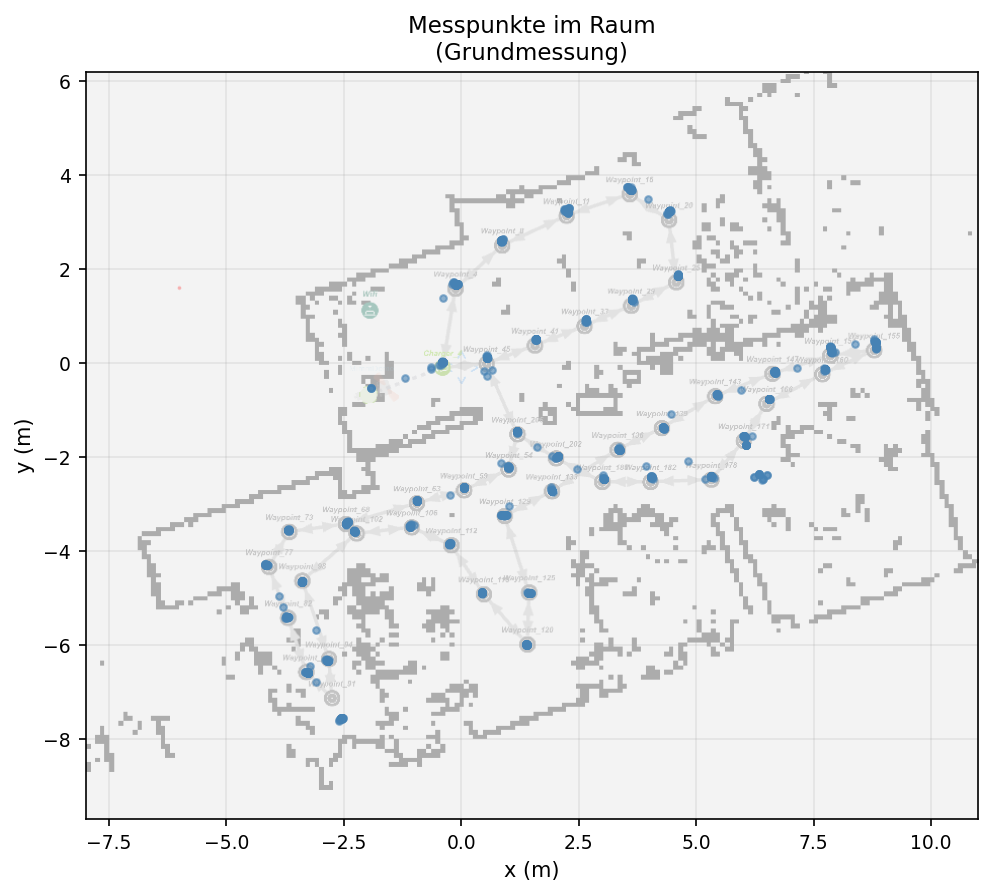
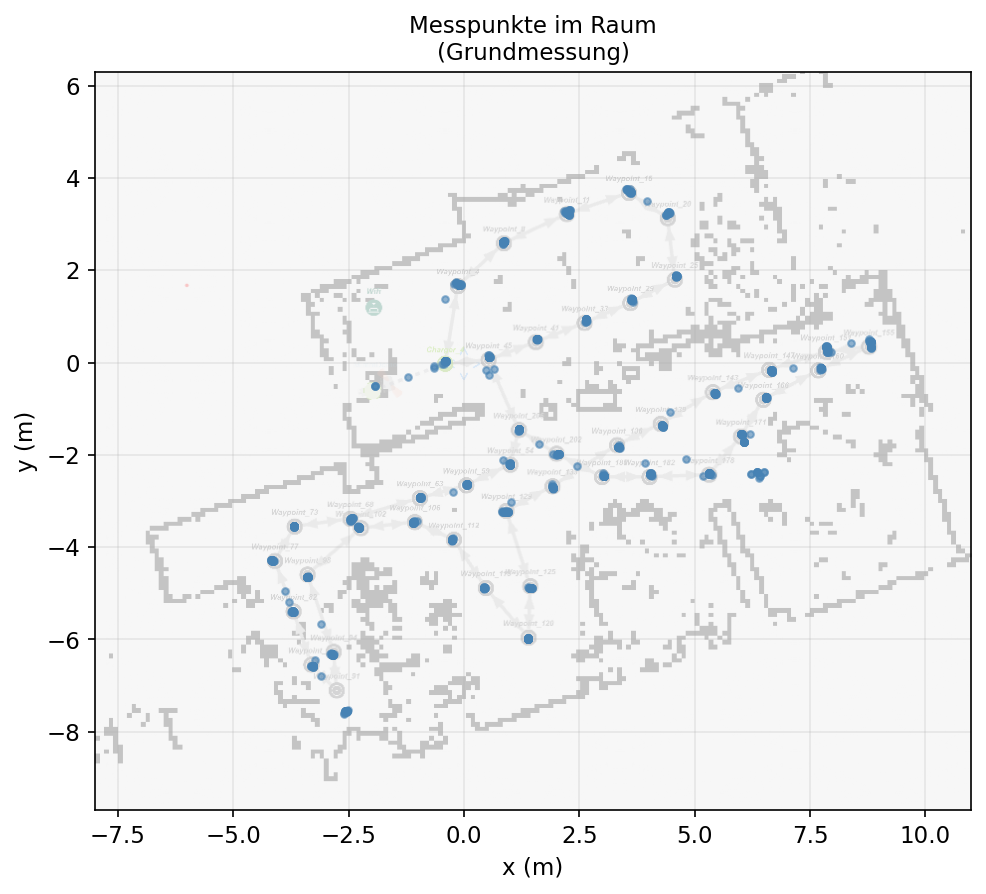
alle Plots erzeugt

diff --git a/Fingerprinting/data/fingerprints/Fingerprint_analyse.py b/Fingerprinting/data/fingerprints/Fingerprint_analyse.py
@@ -25,7 +25,7 @@ import matplotlib.image as mpimg
 from scipy.spatial import cKDTree
 
 # ── Konfiguration ─────────────────────────────────────────────────────
-file_name = "fingerprints_langsame_fahrt.json"
+file_name = "fingerprints_Grundmessung.json"
 
 BASE_DIR   = Path(__file__).resolve().parent
 INPUT_PATH  = BASE_DIR / "Messungen" / file_name
@@ -34,7 +34,7 @@ suffix      = Path(file_name).stem.removeprefix("fingerprints_")
 
 # Hallenkarte
 MAP_FILE   = BASE_DIR.parent / "FTS_Map.png"
-MAP_EXTENT = [-8, 11.0, -9.7, 6.2]   # [x_min, x_max, y_min, y_max] in Metern
+MAP_EXTENT = [-8, 11.0, -9.7, 6.3]   # [x_min, x_max, y_min, y_max] in Metern
 MAP_ALPHA  = 0.25
 
 GRID_CELL_SIZE           = 0.5
@@ -43,7 +43,7 @@ MIN_NEIGHBORS_FOR_STATS  = 3
 
 # ── Schriftgrößen ─────────────────────────────────────────────────────
 FONTSIZE_TITLE  = 11
-FONTSIZE_LABELS = 10
+FONTSIZE_LABELS = 11
 FONTSIZE_TICKS  = 11
 FONTSIZE_LEGEND = 11
 FONTSIZE_CBAR   = 11

diff --git a/Fingerprinting/Auswertung/error_map.py b/Fingerprinting/Auswertung/error_map.py
@@ -7,7 +7,7 @@ import matplotlib.patches as mpatches
 import matplotlib.image as mpimg
 import numpy as np
 
-file_name = "position_comparison_Grundmessung.json"
+file_name = "position_comparisons_12.08.optimiertesModell.json"
 suffix    = Path(file_name).stem.removeprefix("position_comparison_")
 BASE_DIR     = Path(__file__).resolve().parent.parent
 DATA_PATH    = BASE_DIR / "data"
@@ -18,7 +18,7 @@ MAP_PATH     = DATA_PATH / f"Positionsvergleich/Auswertungen/spatial_error_{suff
 MAP_FILE = DATA_PATH / "FTS_Map.png"
 
 # --- Karten-Kalibrierung ---
-MAP_EXTENT = [-8, 11.0, -9.7, 6.2]  # [x_min, x_max, y_min, y_max] in Metern
+MAP_EXTENT = [-8, 11.0, -9.7, 6.3]  # [x_min, x_max, y_min, y_max] in Metern
 MAP_ALPHA  = 0.25   # Transparenz
 
 # --- Fehler-Schwellenwerte ---

diff --git a/Fingerprinting/Auswertung/Position_comparison.py b/Fingerprinting/Auswertung/Position_comparison.py
@@ -6,7 +6,7 @@ import matplotlib.pyplot as plt
 import matplotlib.image as mpimg
 import numpy as np
 
-file_name = "position_comparison_Grundmessung.json"
+file_name = "position_comparisons_12.08.optimiertesModell.json"
 suffix    = Path(file_name).stem.removeprefix("position_comparison_")
 BASE_DIR     = Path(__file__).resolve().parent.parent
 DATA_PATH    = BASE_DIR / "data"
@@ -20,7 +20,7 @@ MAP_FILE = DATA_PATH / "FTS_Map.png"
 # extent = [x_min, x_max, y_min, y_max] in Metern
 # Anpassen bis Messpunkte korrekt auf der Karte liegen.
 # y ist gespiegelt: origin='upper' dreht die Karte automatisch.
-MAP_EXTENT = [-8, 11.0, -9.7, 6.2]
+MAP_EXTENT = [-8, 11.0, -9.7, 6.3]
 MAP_ALPHA  = 0.25   # Transparenz der Karte (0=unsichtbar, 1=voll)
 
 # --- Schriftgrößen ---
